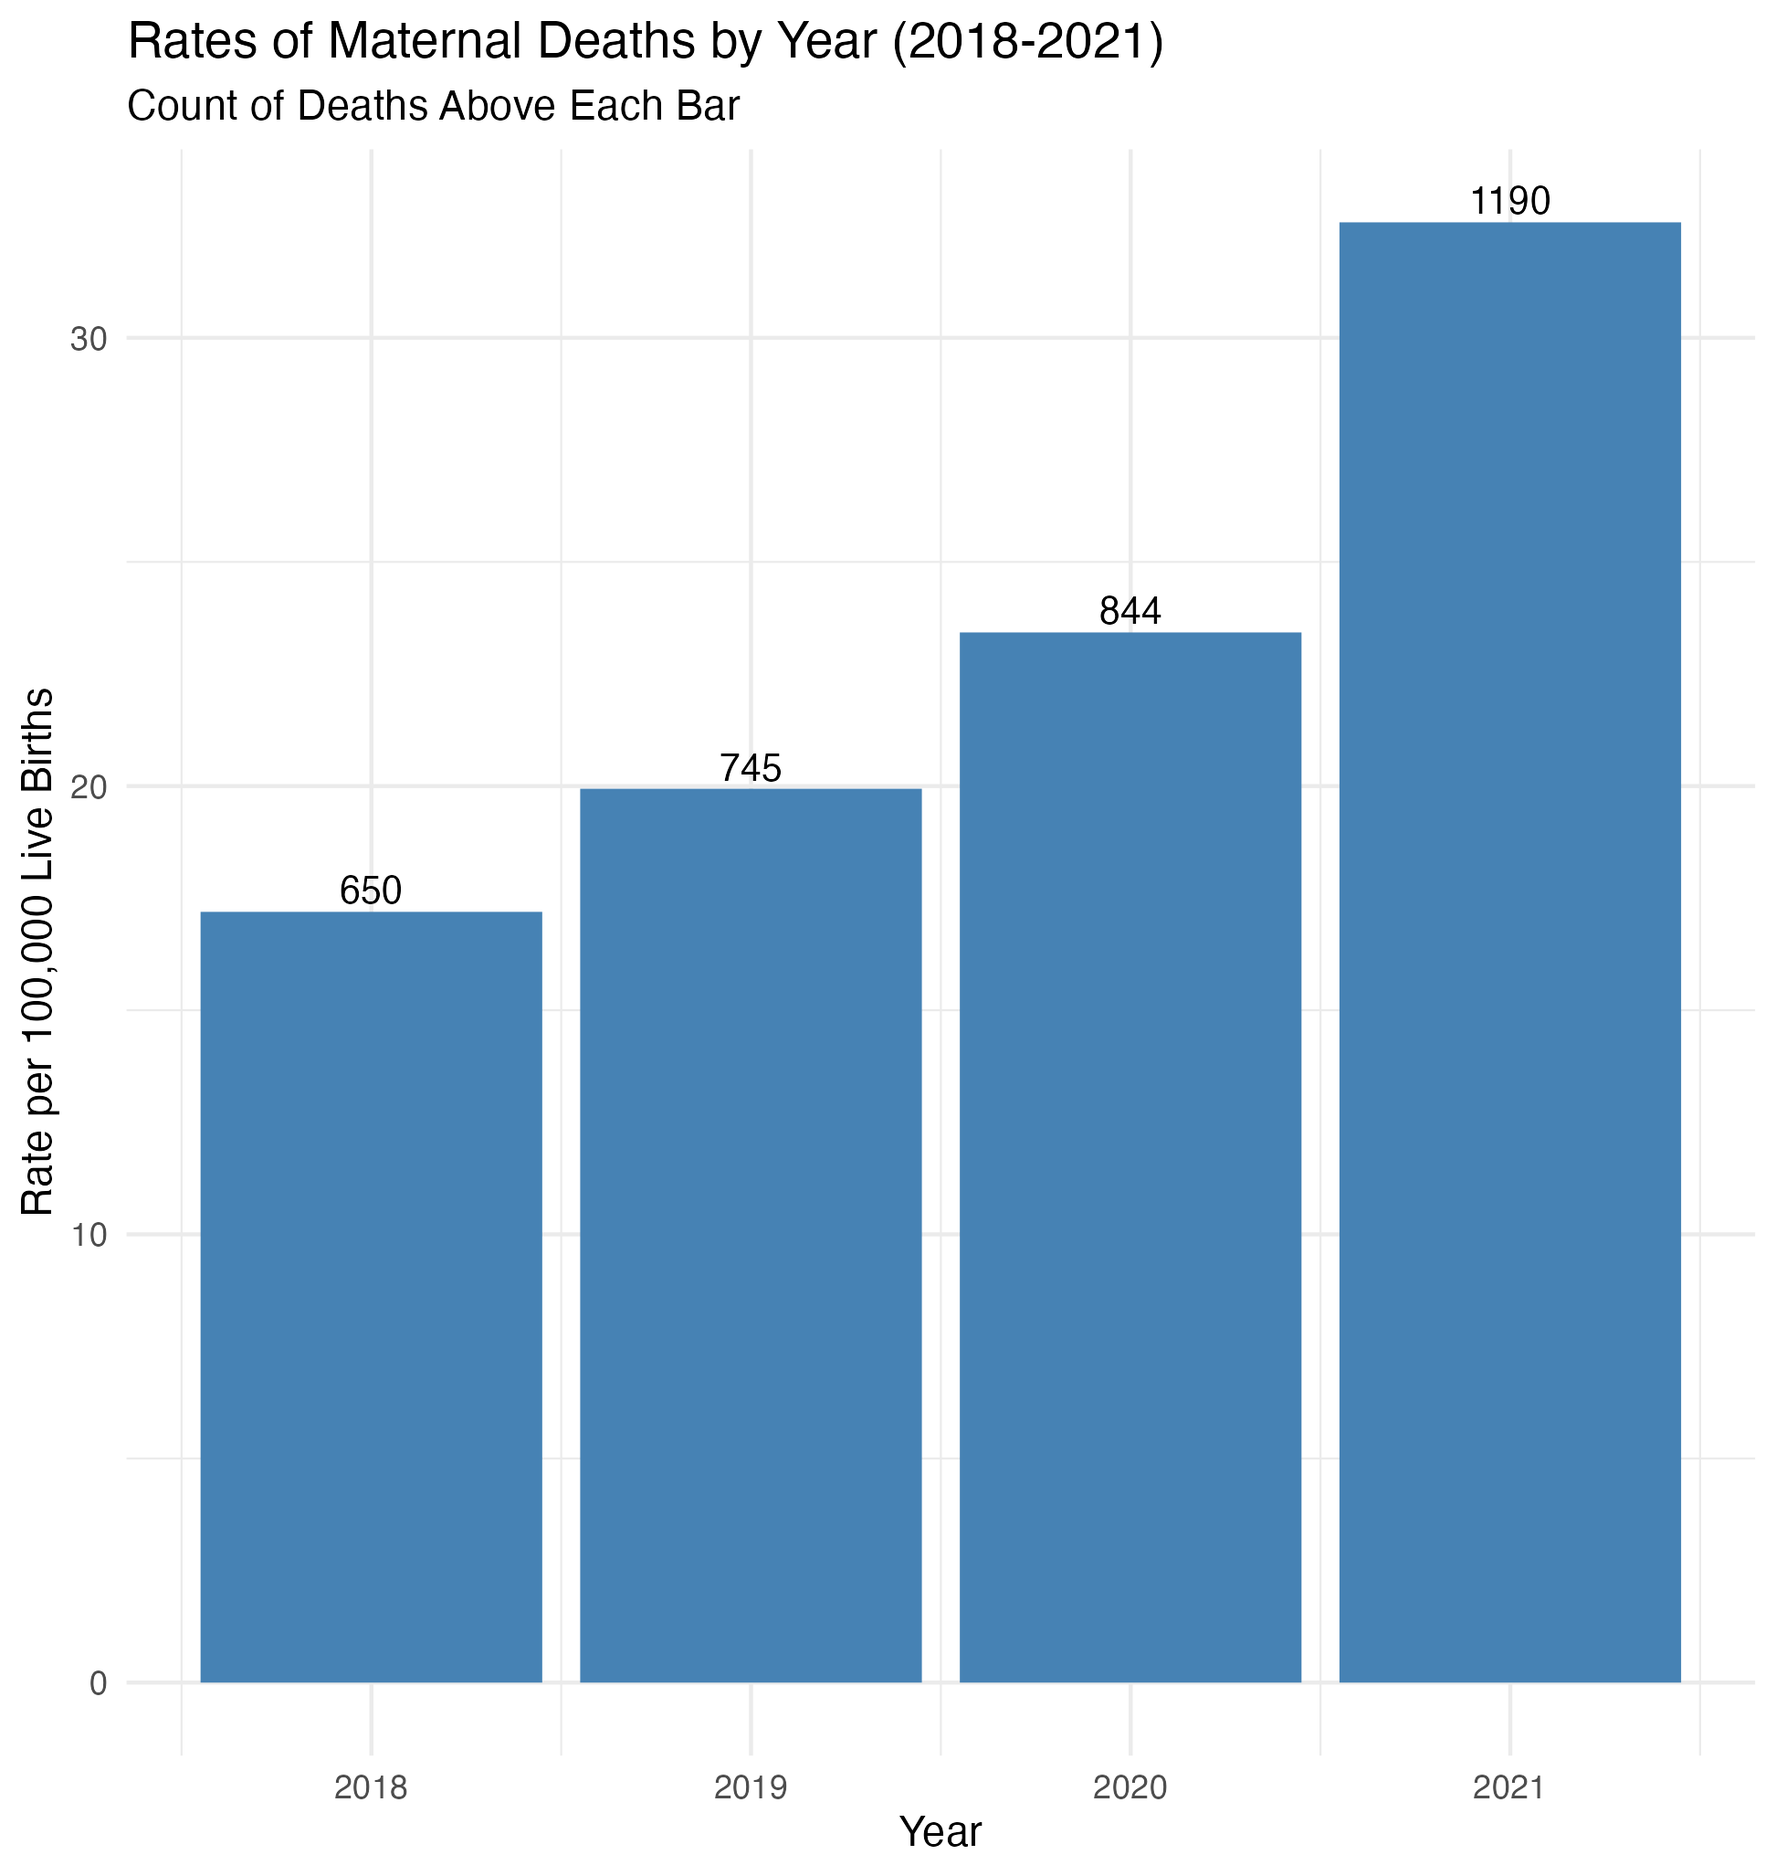
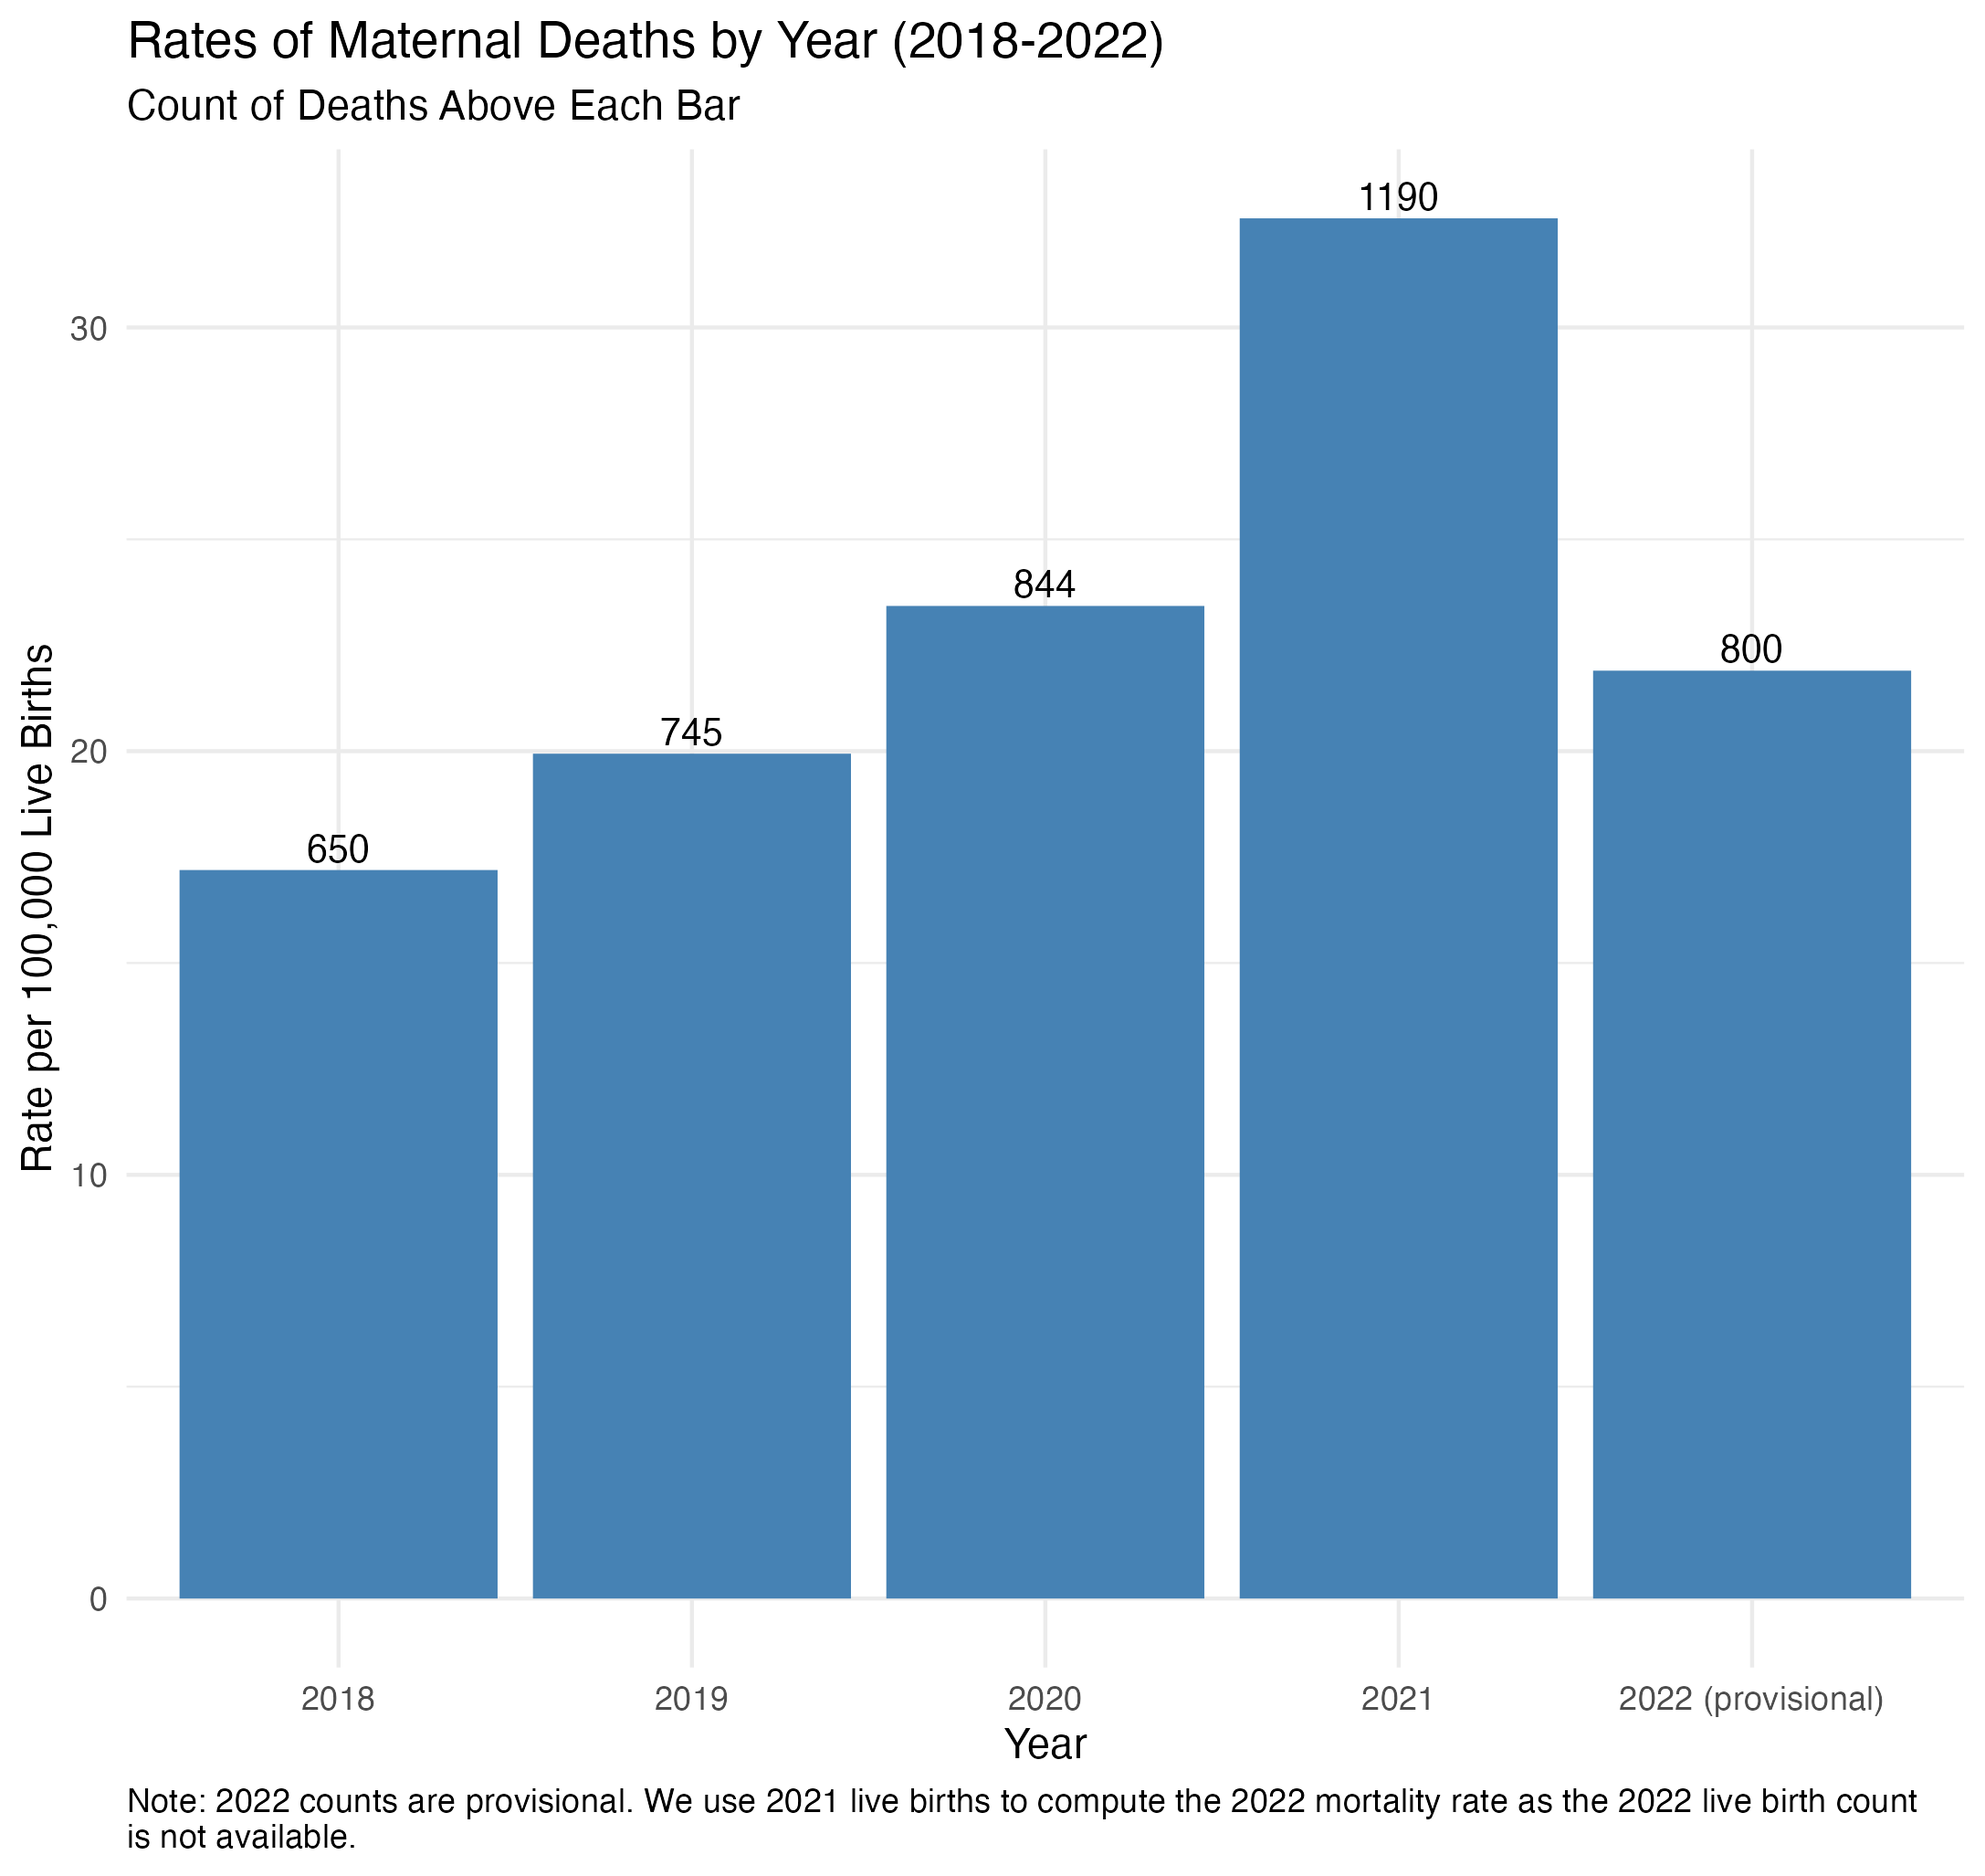
Add 2022 provisional maternal deaths

diff --git a/data/README.md b/data/README.md
@@ -13,7 +13,7 @@ Fetal deaths data can be accessed at the following links:
 - By state: https://wonder.cdc.gov/controller/saved/D133/D347F116
 
 Maternal deaths data can be accessed at the following links:
-- National by year: https://wonder.cdc.gov/controller/saved/D176/D347F147
+- National by year: https://wonder.cdc.gov/controller/saved/D176/D347F305
 - National by mother's age: https://wonder.cdc.gov/controller/saved/D176/D347F148
 - National by mother's race: https://wonder.cdc.gov/controller/saved/D176/D347F151
 - By state: https://wonder.cdc.gov/controller/saved/D176/D347F150
